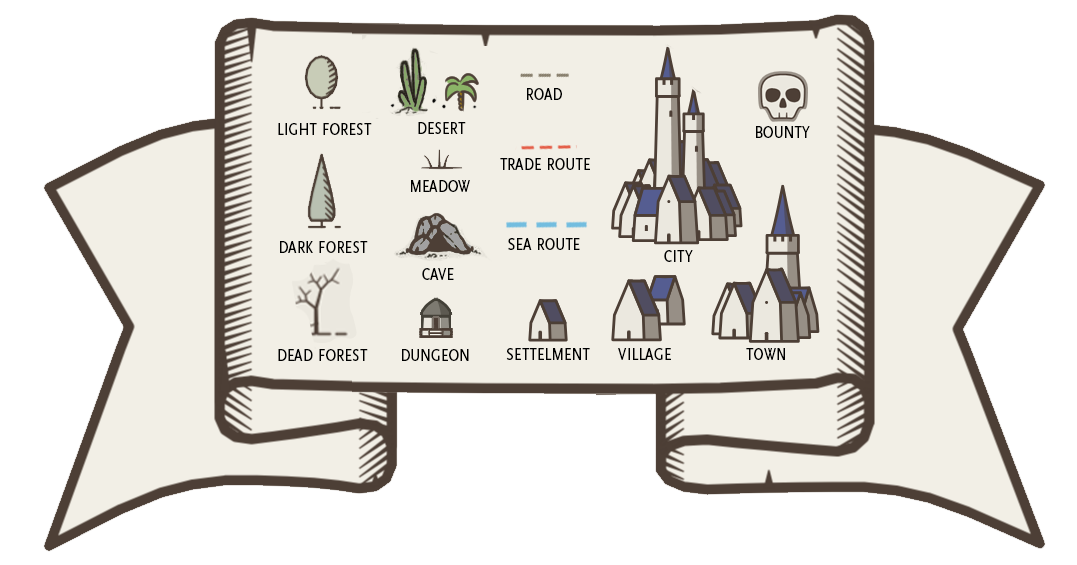
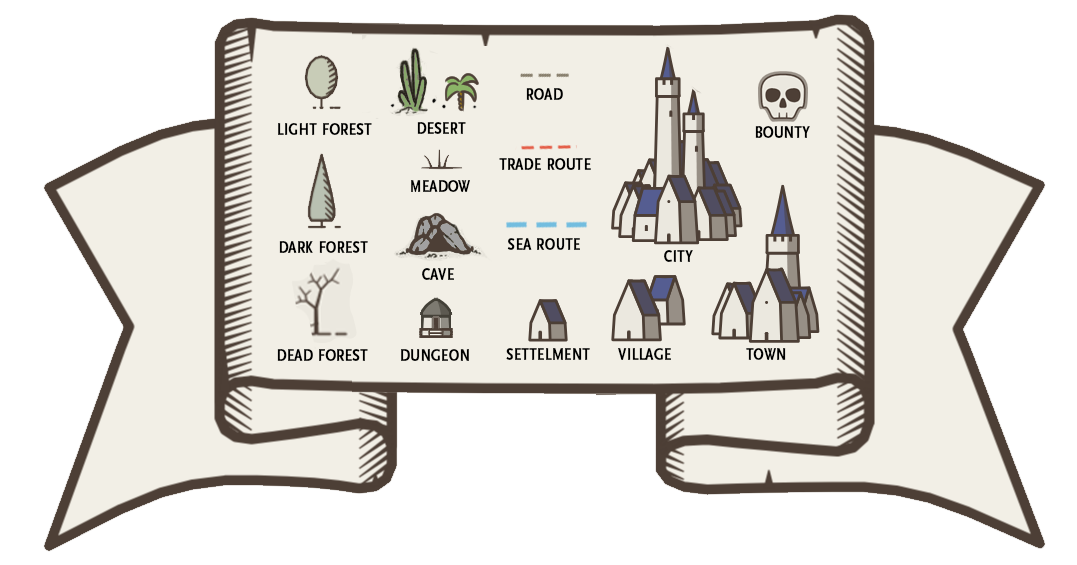
Deploy updates

diff --git a/interactive-map.html b/interactive-map.html
@@ -29,51 +29,74 @@
             border: 2px solid #e0e0e0;
             border-radius: 10px;
         }
-        .legend {
-            text-align: center;
-            margin-top: 10px;
-        }
         .legend img {
             max-width: 400px; /* Adjust as necessary */
-            border: 1px solid #e0e0e0;
-            border-radius: 5px;
+            border: none;
+            background: transparent;
+        }
+        .custom-popup {
+            background: #333; /* Dark background */
+            color: #fff; /* Light text */
+            font-family: "Cinzel", serif; /* Custom font */
+            border-radius: 8px; /* Rounded corners */
+            border: 1px solid #00aaff; /* Highlight border */
+            padding: 10px; /* Space inside */
+            width: 250px; /* Fixed width */
+        }
+        .custom-popup h3 {
+            margin: 0;
+            color: #00aaff;
+        }
+        .custom-popup a {
+            color: #00ff00;
+            text-decoration: none;
         }
     </style>
 </head>
 <body>
     <h1>Interactive Map</h1>
 
+    <!-- Map Container -->
+    <div id="campaignmap" style="height: 600px; width: 98%;"></div>
 
-<div id="campaignmap" style="height: 600px; width: 98%;"></div>
     <!-- Legend Section -->
-<div id="legend" style="position: absolute; bottom: 10px; left: 10px; z-index: 1000;">
-    <img src="/mournsfolly/static/images/map-legend.png" alt="Map Legend" style="border: none; box-shadow: none; background: transparent; width: 600px;" />
-</div>
+    <div id="legend" style="position: absolute; bottom: 10px; right: 10px; z-index: 1000;">
+        <img src="static/images/map-legend.png" alt="Map Legend" style="width: 600px;" />
+    </div>
 
-<script>
-    document.addEventListener("DOMContentLoaded", function () {
-        var map = L.map("campaignmap", {
-            crs: L.CRS.Simple,
-            minZoom: -1.5,
-            maxZoom: 2,
-            zoomDelta: 0.5,
-        });
+    <script>
+document.addEventListener("DOMContentLoaded", function () {
+    // Use a simple relative path for the map image
+    const mapImagePath = "./static/images/worldmap.png";
 
-        // Define the bounds and add the map image overlay
-        var bounds = [[0, 0], [1000, 2000]]; // Adjust to your map dimensions
-        L.imageOverlay("/mournsfolly/static/images/worldmap.png", bounds).addTo(map);
+    console.log("Map image path:", mapImagePath); // Debugging output
 
-        // Set the bounds to restrict panning/zooming beyond the image
-        map.setMaxBounds(bounds);
-
-        // Adjust the initial view to center on Mournstead Folly with a starting zoom level
-        var initialCenter = [600, 600]; // Coordinates for Mournstead Folly
-        map.setView(initialCenter, 1); // Center and zoom level (defaultZoom = 1)
-
-        // Add an example marker for Mournstead Folly
-        L.marker(initialCenter).addTo(map).bindPopup("Mournstead - The Heart of the Campaign");
+    // Initialize the map
+    var map = L.map("campaignmap", {
+        crs: L.CRS.Simple,
+        minZoom: -1.5,
+        maxZoom: 2,
+        zoomDelta: 0.5,
     });
-</script>
 
+    // Define the bounds and add the map image
+    var bounds = [[0, 0], [1000, 2000]];
+    L.imageOverlay(mapImagePath, bounds).addTo(map);
+
+    // Restrict the map view to the bounds
+    map.setMaxBounds(bounds);
+
+    // Center the map
+    map.setView([600, 600], 1);
+
+    // Add a marker for Mournsted Folly
+    L.marker([600, 600]).addTo(map).bindPopup(
+        `<a href="./Worldbuilding/Mournsted-Folly-Hub/Mournsted-Folly.html" target="_blank" style="color: #ff4500; text-decoration: none;">
+            <strong>Mournsted Folly</strong>
+         </a>`
+    );
+});
+
+    </script>
 </body>
 </html>
